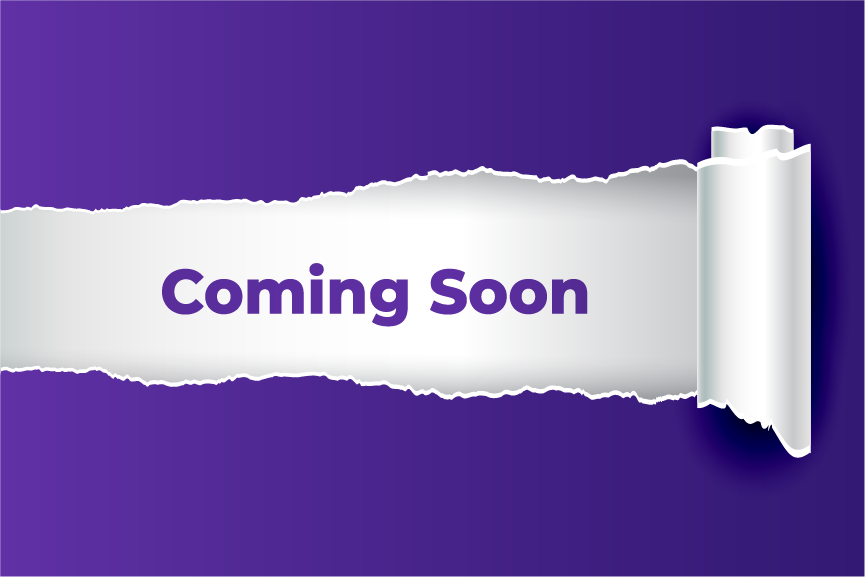
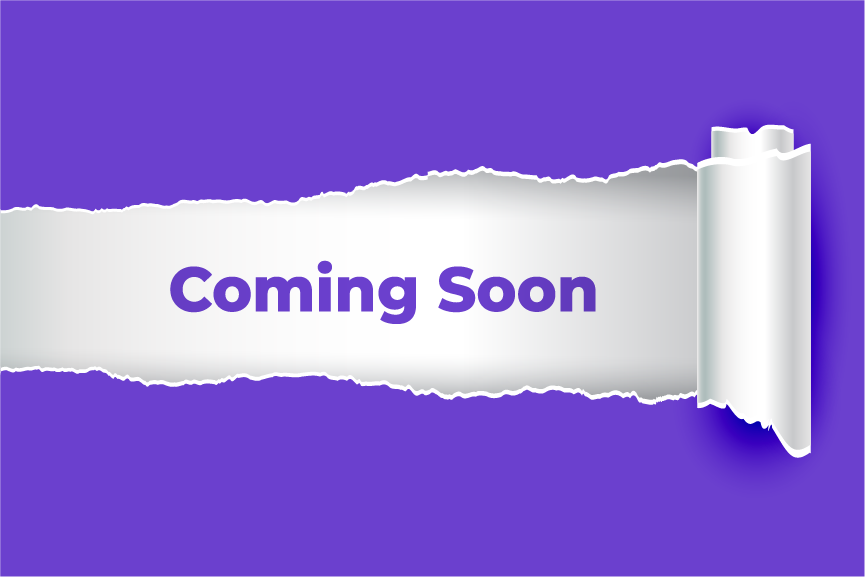
Added work page

diff --git a/web/assets/css/style.css b/web/assets/css/style.css
@@ -267,3 +267,52 @@ footer {
     font-size: .68rem;
   }
 }
+
+.work {
+  height: 70vh;
+  background-color: #6b40ce;
+  text-align: center;
+  background-image: url(../images/coming-soon-alt.png);
+  background-position: center;
+  background-repeat: no-repeat;
+  background-size: cover;
+}
+@media only screen and (max-width: 767px) {
+  .work {
+    height: 50vh;
+    background-image: url(../images/coming-soon-alt-2.png);
+  }
+}
+@media only screen and (min-width: 767px) and (orientation: portrait) {
+  .work {
+    height: 50vh;
+    background-image: url(../images/coming-soon-alt-2.png);
+  }
+}
+.work img {
+  max-height: 100%;
+}
+.work h1 {
+  margin: 0;
+  color: white;
+  padding: 1rem;
+}
+
+footer {
+  text-align: center;
+}
+@media only screen and (max-width: 420px) {
+  footer span {
+    font-size: .85rem;
+  }
+}
+@media only screen and (max-width: 360px) {
+  footer span {
+    font-size: .75rem;
+  }
+}
+@media only screen and (max-width: 320px) {
+  footer span {
+    font-size: .68rem;
+  }
+}

diff --git a/web/assets/css/scss/_work.scss b/web/assets/css/scss/_work.scss
@@ -1,0 +1,46 @@
+.work {
+    height: 70vh;
+    background-color: #6b40ce;
+    text-align: center;
+    background-image: url(../images/coming-soon-alt.png);
+    @include MQ(767px) {
+        height: 50vh;
+        background-image: url(../images/coming-soon-alt-2.png);
+    }
+
+    @include MQO(767px, portrait) {
+        height: 50vh;
+        background-image: url(../images/coming-soon-alt-2.png);
+    }
+    background-position: center;
+    background-repeat: no-repeat;
+    background-size: cover;
+
+    img {
+        max-height: 100%;
+    }
+
+    h1 {
+        margin: 0;
+        color: white;
+        padding: 1rem;
+    }
+}
+
+footer {
+    text-align: center;
+
+    span {
+        @include MQ(420px) {
+            font-size: .85rem;
+        }
+
+        @include MQ(360px) {
+            font-size: .75rem;
+        }
+
+        @include MQ(320px) {
+            font-size: .68rem;
+        }
+    }
+}

diff --git a/web/assets/css/scss/style.scss b/web/assets/css/scss/style.scss
@@ -5,3 +5,4 @@
 
 @import "index";
 @import "profile";
+@import "work";

diff --git a/web/pages/work.php b/web/pages/work.php
@@ -3,7 +3,7 @@
 <head>
     <meta charset="UTF-8">
     <meta name="viewport" content="width=device-width, initial-scale=1.0">
-    <title>My Profile</title>
+    <title>My Work</title>
     <link rel="stylesheet" href="assets/css/style.css">
 </head>
 <body>
@@ -15,7 +15,11 @@
         ?>
     </header>
 
-    <main></main>
+    <main>
+        <section class="work">
+                <h1>MY WORK</h1>
+        </section>
+    </main>
 
     <footer><?php include($_SERVER['DOCUMENT_ROOT'].'/components/footer.php'); ?></footer>
 

diff --git a/web/pages/home.php b/web/pages/home.php
@@ -26,6 +26,7 @@
         </section>
 
         <section class="second-row">
+                <h1>My Work</h1>
         </section>
     </main>
 
